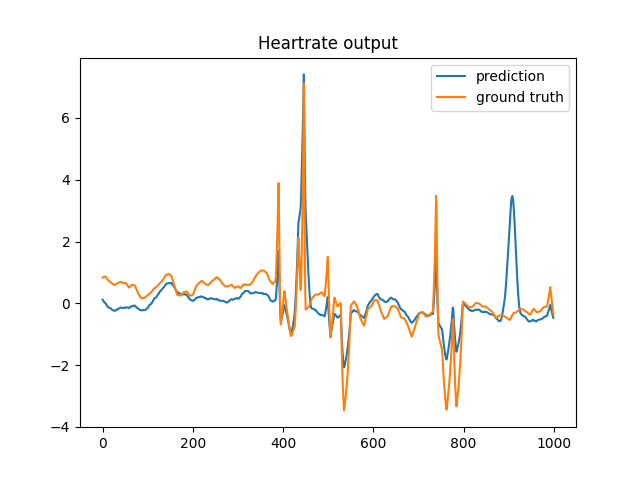
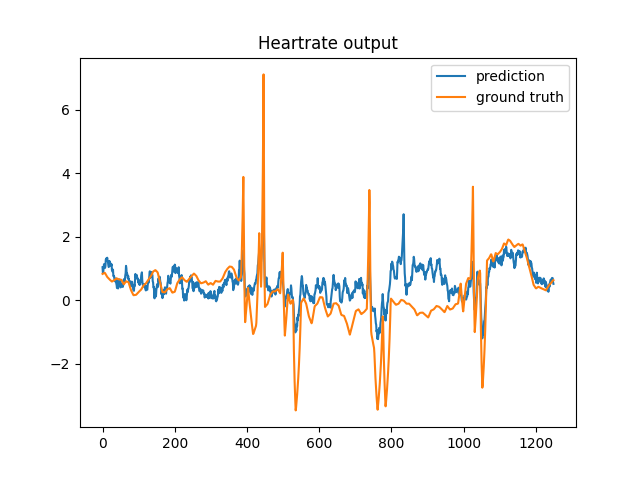
Model works for both RR input and ECG input. The issue was that the same output was being repeated twice

diff --git a/train_network.py b/train_network.py
@@ -6,8 +6,7 @@ import torch.optim as optim
 import torch.nn as nn
 from torch.utils.data import TensorDataset, DataLoader
 signal_length = 2500
-batch_size = 128*4
-
+batch_size = 512
 
 ecg_data =np.loadtxt('processed_data/ecg.csv', delimiter=',',dtype=np.float32)
 rr_data = np.loadtxt('processed_data/rr.csv', delimiter=',',dtype=np.float32)
@@ -16,9 +15,6 @@ ecg_data_train = torch.from_numpy(ecg_data[:,signal_length//2:])
 ecg_data_test = torch.from_numpy(ecg_data[:,:signal_length//2])
 rr_data_train = torch.from_numpy(rr_data[:,signal_length//2:])
 rr_data_test = torch.from_numpy(rr_data[:,:signal_length//2])
-
-print(ecg_data_train.shape[0], batch_size)
-print(rr_data_train.shape[0], batch_size)
 
 ecg_dl = DataLoader(TensorDataset(ecg_data_train, ecg_data_test), shuffle=False, batch_size=batch_size,drop_last=True)
 rr_dl = DataLoader(TensorDataset(rr_data_train, rr_data_test), shuffle=False, batch_size=batch_size,drop_last=True)
@@ -29,22 +25,22 @@ optimizer = optim.Adam(model.parameters(), lr=1e-3)
 
 device = "cuda"
 model = model.to(device)
-
+"""
 # Training loop
 epochs = 500
 for epoch in range(epochs):
     model.train()
     running_loss = 0.0
 
-    for (ecg_input, ecg_output), (rr_input, rr_output) in zip(ecg_dl,rr_dl):
-        ecg_input, ecg_output, rr_input, rr_output = ecg_input.to(device), ecg_output.to(device), rr_input.to(device), rr_output.to(device)
+    for (ecg_train, ecg_test), (rr_train, rr_test) in zip(ecg_dl,rr_dl):
+        ecg_train, ecg_test, rr_train, rr_test = ecg_train.to(device), ecg_test.to(device), rr_train.to(device), rr_test.to(device)
 
         # Forward pass
-        ecg_pred, rr_pred = model(ecg_input, rr_input)
+        ecg_pred, rr_pred = model(ecg_train, rr_train)
 
         # Compute individual losses and combine
-        loss1 = criterion(ecg_pred, ecg_output)
-        loss2 = criterion(rr_pred, rr_output)
+        loss1 = criterion(ecg_pred, ecg_test)
+        loss2 = criterion(rr_pred, rr_test)
         loss = loss1 + loss2
 
         optimizer.zero_grad()
@@ -56,19 +52,17 @@ for epoch in range(epochs):
     print(f"Epoch {epoch+1}/{epochs}, Loss: {running_loss / len(ecg_dl):.4f}")
 
 torch.save(model.state_dict(), 'model.pth')
-
+"""
 model = GNN(signal_length=signal_length//2).cuda()
 model.load_state_dict(torch.load('model.pth', weights_only=True))
 
-ecg_inputs, ecg_outputs = next(iter(ecg_dl))
-rr_inputs, rr_outputs = next(iter(rr_dl))
+ecg_train, ecg_test = next(iter(ecg_dl))
+rr_train, rr_test = next(iter(rr_dl))
 
-ecg_pred, rr_pred = model(ecg_inputs.cuda(), rr_inputs.cuda())
-
-
+ecg_pred, rr_pred = model(ecg_train.cuda(), rr_train.cuda())
 fig = plt.figure()
-plt.plot(ecg_pred[0,:1000].cpu().detach(), label='prediction')
-plt.plot(ecg_outputs[0,:1000].cpu().detach(), label='ground truth')
+plt.plot(ecg_pred[0,:].cpu().detach(), label='prediction')
+plt.plot(ecg_test[0,:].cpu().detach(), label='ground truth')
 plt.legend()
 plt.title("ECG output")
 plt.savefig('ecg_pred.png')
@@ -76,8 +70,8 @@ plt.show()
 
 
 fig = plt.figure()
-plt.plot(rr_pred[0,:1000].cpu().detach(), label='prediction')
-plt.plot(rr_outputs[0,:1000].cpu().detach(), label='ground truth')
+plt.plot(rr_pred[0,:].cpu().detach(), label='prediction')
+plt.plot(rr_test[0,:].cpu().detach(), label='ground truth')
 plt.legend()
 plt.title("Heartrate output")
 plt.savefig('heartrate_pred.png')

diff --git a/neural_network.py b/neural_network.py
@@ -37,8 +37,9 @@ class ecg_net(nn.Module):
         return self.net(x)
 
 class combo_net(nn.Module):
-    def __init__(self, output_len=3000):
+    def __init__(self, output_len):
         super().__init__()
+        self.output_len = output_len
         self.hr_proj = nn.Sequential(
             nn.Linear(256, 256),
             nn.GELU()
@@ -55,15 +56,17 @@ class combo_net(nn.Module):
             nn.GELU(),
             nn.Linear(1024, 2048),
             nn.GELU(),
-            nn.Linear(2048, output_len)
+            nn.Linear(2048, output_len*2)
         )
 
     def forward(self, a_out, b_out):
         a = self.hr_proj(a_out)
         b = self.ecg_proj(b_out)
-        fused = torch.cat([a, b], dim=1)  # [B, 32]
-        output = self.fusion(fused)       # [B, 3000]
-        return output, output  # return both outputs for now
+        fused = torch.cat([a, b], dim=1)
+        output = self.fusion(fused)
+        ecg_output = output[:,self.output_len:]
+        rr_output = output[:,:self.output_len]
+        return ecg_output, rr_output
 
 class GNN(nn.Module):
     def __init__(self, signal_length):
@@ -73,6 +76,6 @@ class GNN(nn.Module):
         self.fusion = combo_net(output_len=signal_length)
 
     def forward(self, x1, x2):
-        out_a = self.a(x1)  # [B, 16]
-        out_b = self.b(x2)  # [B, 16]
-        return self.fusion(out_a, out_b)  # [B, 3000], [B, 3000]
+        out_a = self.a(x1)
+        out_b = self.b(x2)
+        return self.fusion(out_a, out_b)
